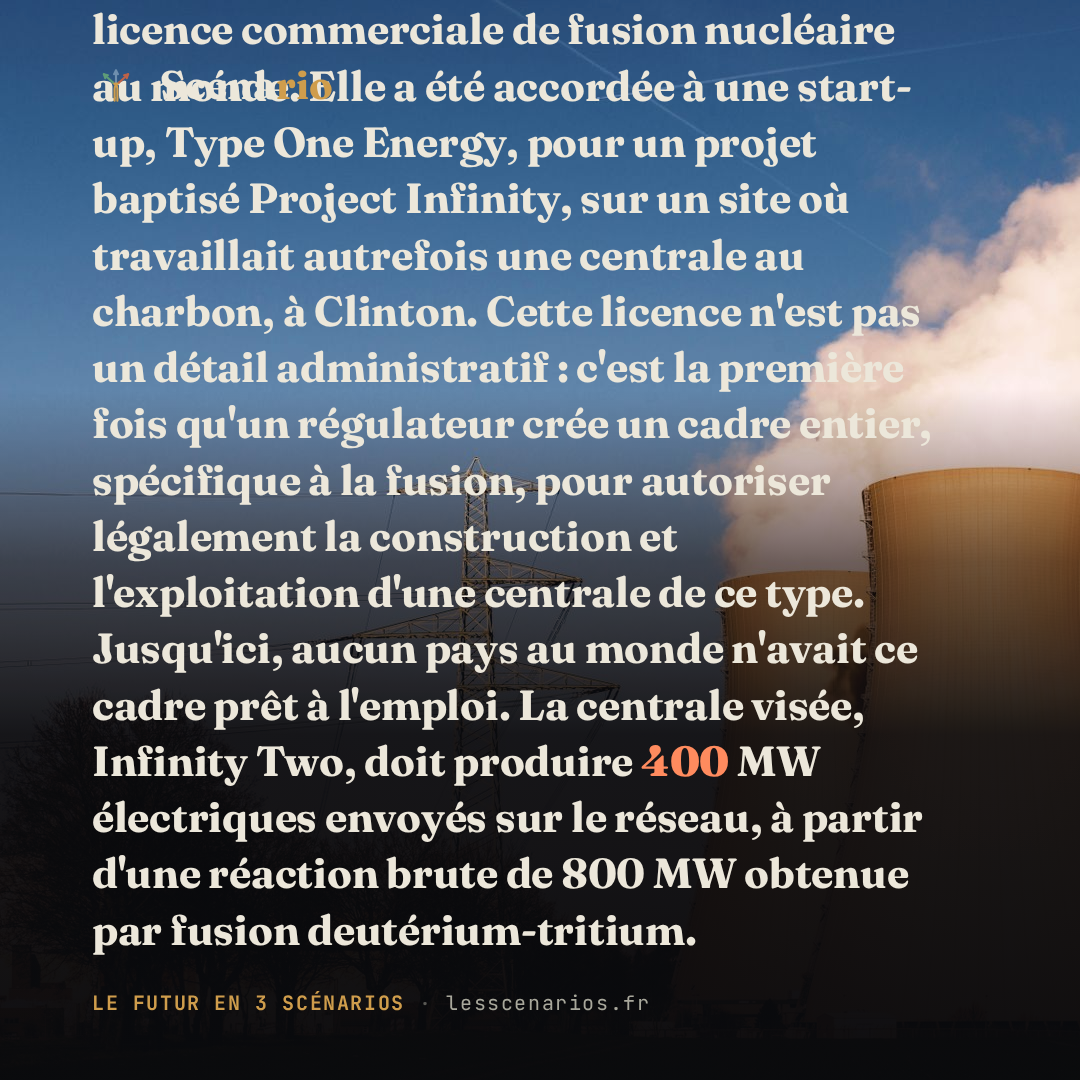
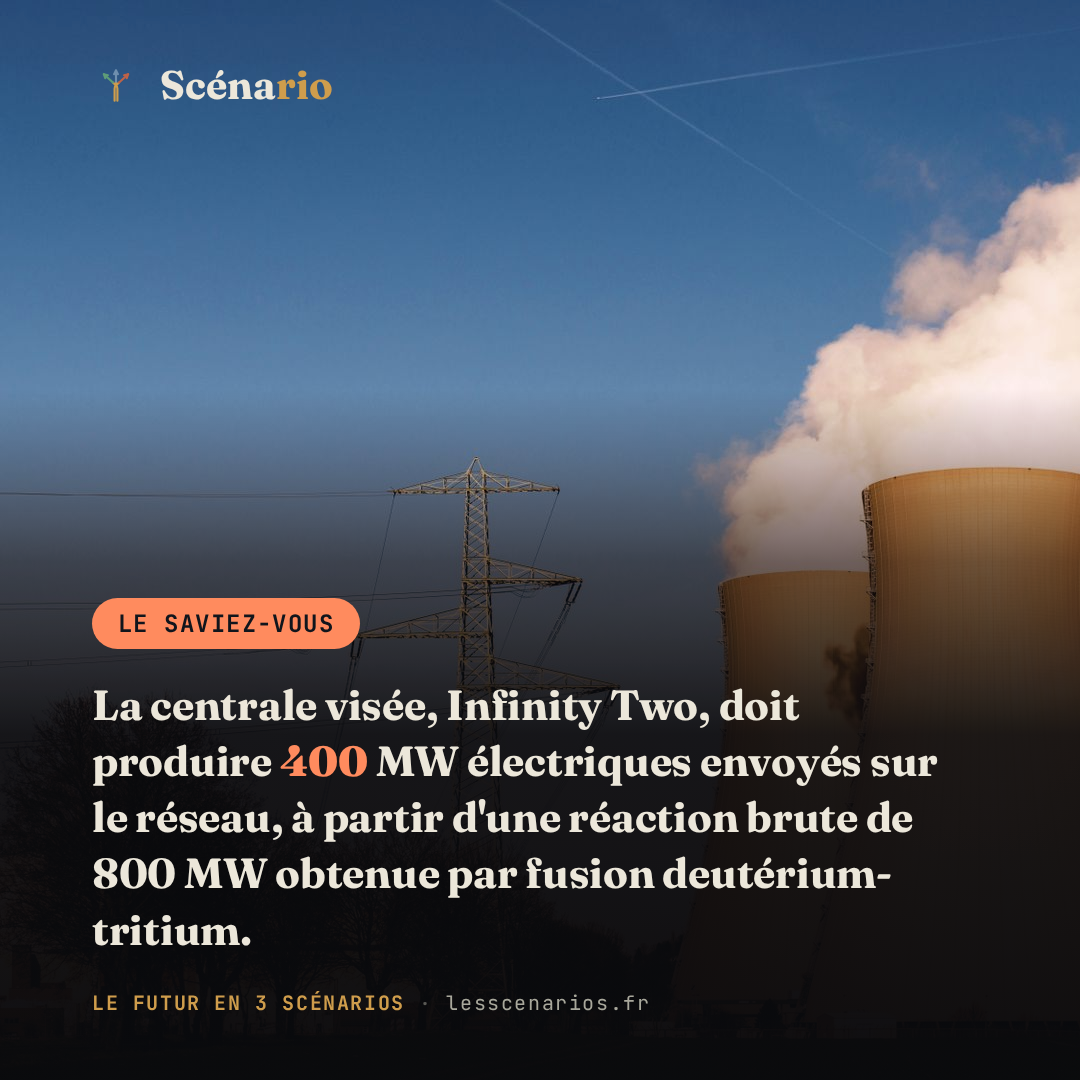
[pub] correction du post 2026-09-16 (message recalibré)

Changed region(s): [[0.0611, 0.0, 0.8861, 0.8861]]

diff --git a/docs/pub-messages.md b/docs/pub-messages.md
@@ -837,7 +837,7 @@ préférée pour son registre déjà simplifié.*
 ### chiffre-2026-09-16
 - eyebrow: LE SAVIEZ-VOUS
 - stat: 400
-- message: Le 31 août 2026, l'État américain du Tennessee a délivré la toute première licence commerciale de fusion nucléaire au monde. Elle a été accordée à une start-up, Type One Energy, pour un projet baptisé Project Infinity, sur un site où travaillait autrefois une centrale au charbon, à Clinton. Cette licence n'est pas un détail administratif : c'est la première fois qu'un régulateur crée un cadre entier, spécifique à la fusion, pour autoriser légalement la construction et l'exploitation d'une centrale de ce type. Jusqu'ici, aucun pays au monde n'avait ce cadre prêt à l'emploi. La centrale visée, Infinity Two, doit produire 400 MW électriques envoyés sur le réseau, à partir d'une réaction brute de 800 MW obtenue par fusion deutérium-tritium.
+- message: La centrale visée, Infinity Two, doit produire 400 MW électriques envoyés sur le réseau, à partir d'une réaction brute de 800 MW obtenue par fusion deutérium-tritium.
 - attribution: — lesscenarios.fr, 15 septembre 2026
 - cta: 👉 Abonne-toi, un chiffre qui marque chaque jour
 - source: https://lesscenarios.fr/archives/2026-09-15.html
